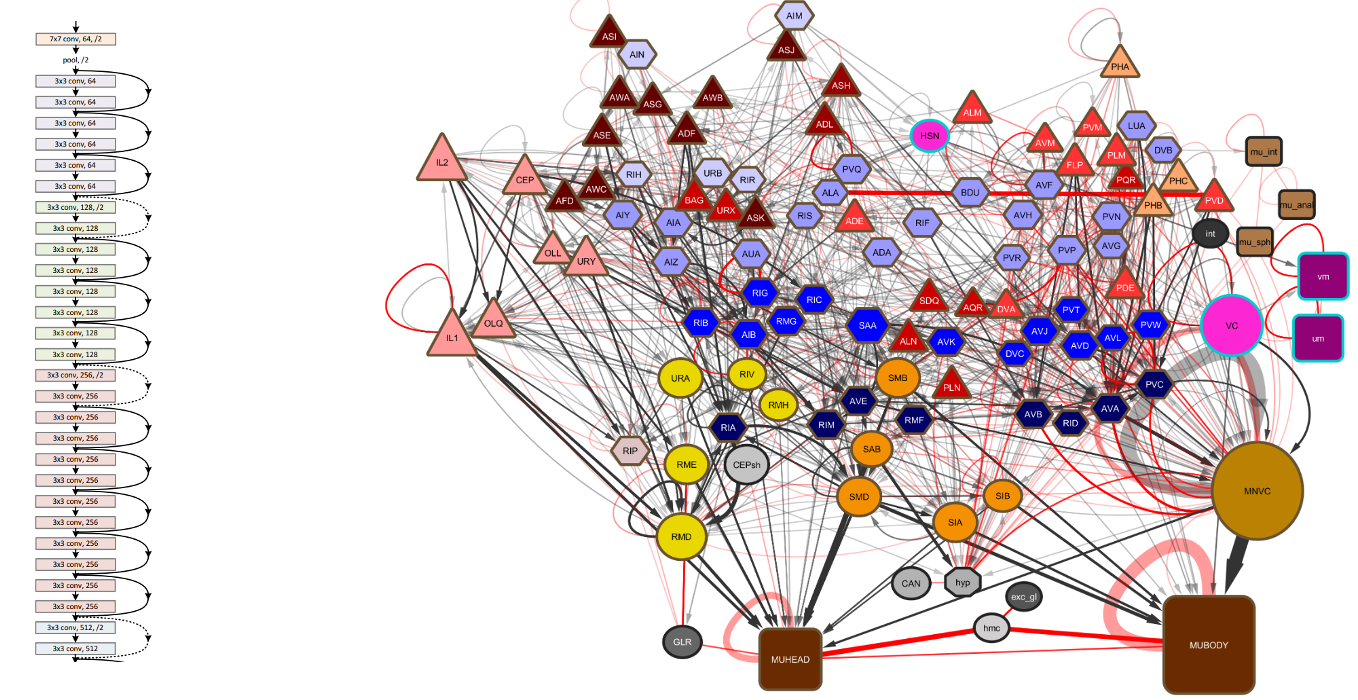
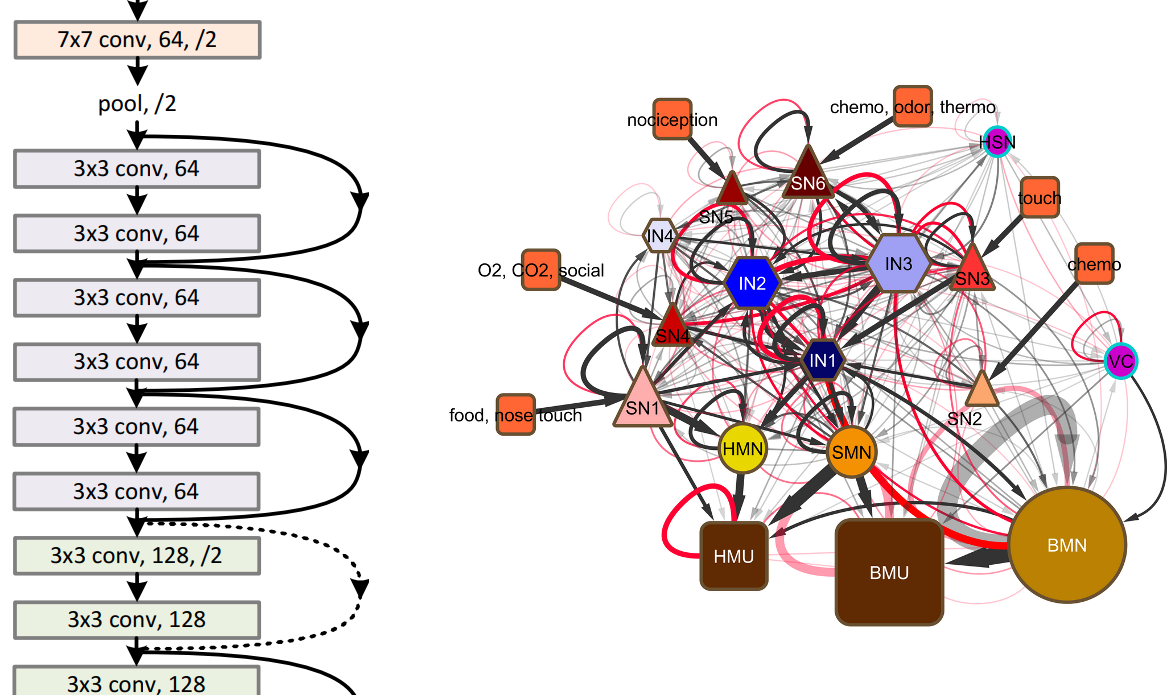
hierarchy

diff --git a/_posts/2020-09-14-wormnet1.md b/_posts/2020-09-14-wormnet1.md
@@ -23,6 +23,9 @@ There are two critical differences between artificial and biological neural netw
 Biological neurons are cells whose cell-wall have an electrical charge depending on the concentration of certain ions inside vs. outside the cell. 
 The number of ions inside the cell can be changed by mechanisms of the cell itself when the cell's electrical charge exceeds a threshold or via neurotransmitters released by synapses coming from other neurons. 
 On the other side of the spectrum, an artificial neuron is simply a weighted summation of its inputs, followed by a non-linear function. This high-level abstraction is an extreme simplification of the underlying information processing mechanism. 
+
+![award]({{ site.baseurl }}/images/wormnet/hierarchy.png "Abstraction hierarchy of various neuron models")
+
 On the one hand, this simplification lets us easily design deep neural networks of millions of units with only a few code lines.
 One the other hand, it raises the question of whether we lose some important properties and aspects of biological neurons.
 
